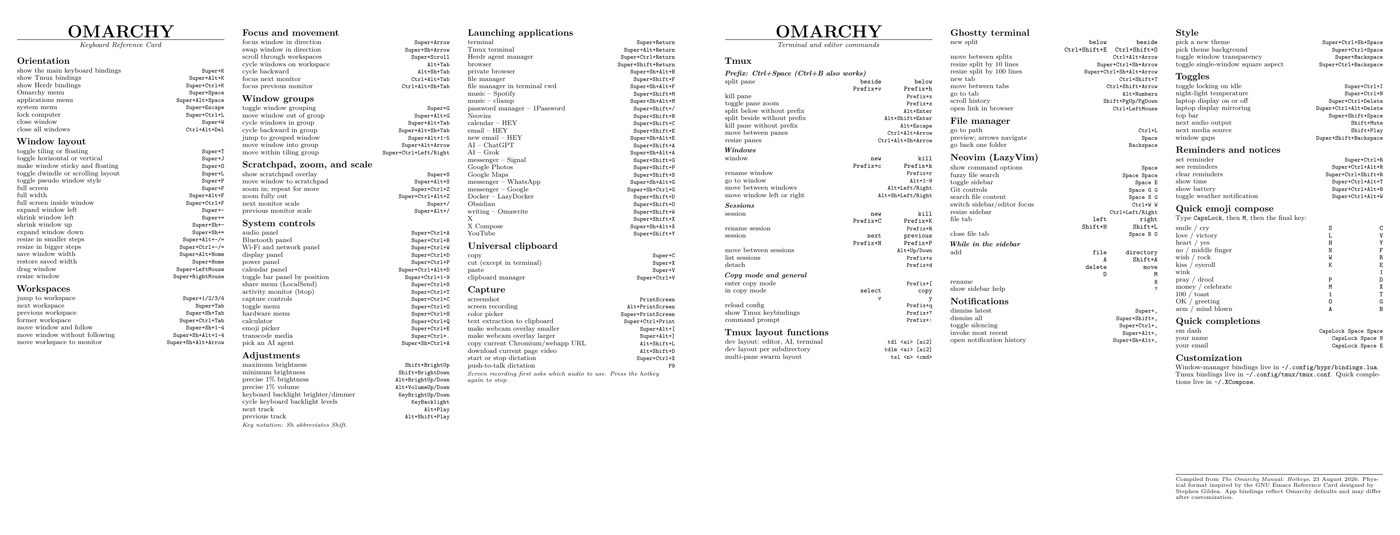
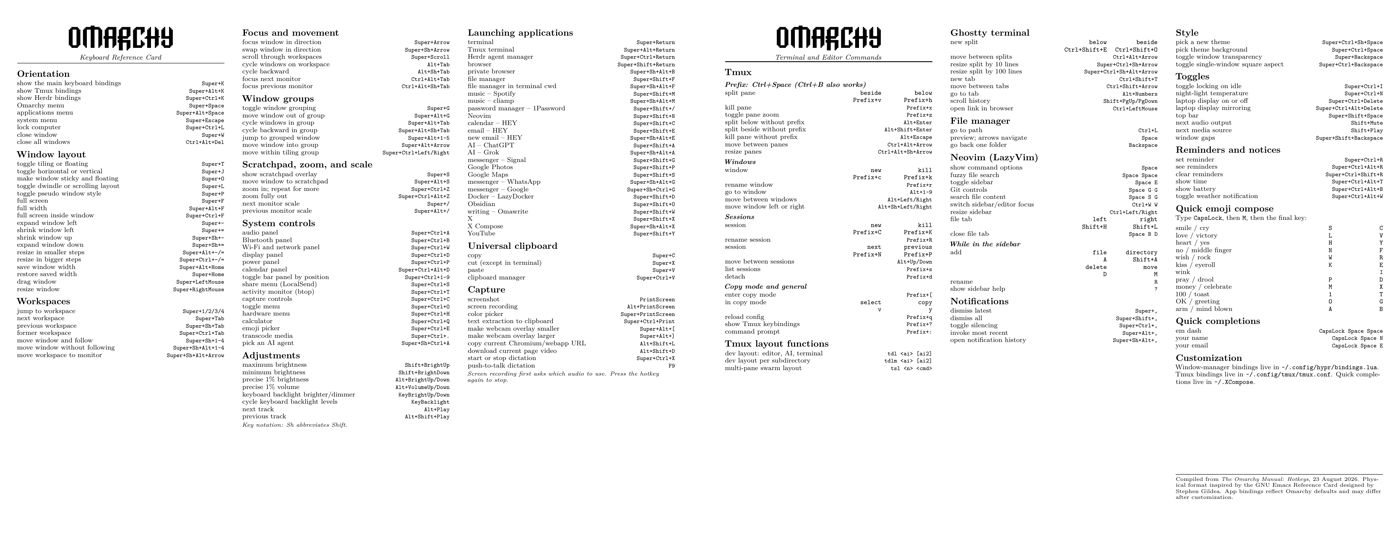
Use the official Omarchy wordmark

Changed region(s): [[0.0, 0.0299, 0.1843, 0.6879], [0.4914, 0.0299, 0.6757, 0.7178]]

diff --git a/personalize.example.tex b/personalize.example.tex
@@ -1,8 +1,9 @@
 % Copy this file to personalize.tex, then uncomment and edit what you want.
 % Defaults and layout files can be updated later without overwriting your work.
 
-% Change the title or subtitle.
+% Change the title or subtitle. A custom title replaces the official wordmark.
 % \SetCardTitle{PAUL'S OMARCHY}
+% \UseOfficialOmarchyWordmark
 % \SetCardEdition{Omarchy}
 % \SetCardSubtitle{Personal Reference Card}
 % \SetCardSourceDate{23 August 2026}

diff --git a/omarchy-reference-card.tex b/omarchy-reference-card.tex
@@ -17,7 +17,7 @@
 
 % SIDE ONE -- columns 1 through 3
 \noindent\panel{
-\cardtitle{\CardTitle}
+\PrintCardTitle
 \cardsubtitle{\CardSubtitle}
 
 \sectionhead{Orientation}
@@ -171,8 +171,8 @@
 
 % SIDE TWO -- columns 4 through 6
 \noindent\panel{
-\cardtitle{\CardTitle}
-\cardsubtitle{Terminal and editor commands}
+\PrintCardTitle
+\cardsubtitle{Terminal and Editor Commands}
 
 \sectionhead{Tmux}
 \subhead{Prefix: Ctrl+Space (Ctrl+B also works)}

diff --git a/README.md b/README.md
@@ -3,8 +3,9 @@
 [Omarchy](https://omarchy.org/) has a lot of excellent shortcuts. Remembering
 all of them is another matter.
 
-This project puts the useful ones on a beautifully typeset, six-panel keyboard
-reference card you can print, fold, and keep beside your keyboard.
+This unofficial community project puts the useful ones on a beautifully
+typeset, six-panel keyboard reference card you can print, fold, and keep beside
+your keyboard.
 
 Its retro look reaches past pixel art and gaming nostalgia to the technical
 reference cards of the late 1980s and early 1990s: dense, restrained,

diff --git a/docs/CUSTOMIZING.md b/docs/CUSTOMIZING.md
@@ -79,6 +79,13 @@ Titles and source information can also be personalized:
 \SetCardSourceDate{23 August 2026}
 ```
 
+`\SetCardTitle` replaces the default Omarchy wordmark with the supplied text
+on both sides. Restore the official wordmark with:
+
+```tex
+\UseOfficialOmarchyWordmark
+```
+
 Descriptions and keys are TeX text. Escape special characters when they should
 print literally; for example, write `\%`, `\_`, `\&`, and `\#`.
 

diff --git a/assets/README.md b/assets/README.md
@@ -1,0 +1,10 @@
+# Artwork
+
+`omarchy-wordmark.png` is a monochrome print rendering of Omarchy's official
+wordmark. It is derived from
+`default/plymouth/logo.png` in the
+[Omarchy repository](https://github.com/basecamp/omarchy), with its RGB
+channels changed to black and its transparency preserved.
+
+Copyright (c) David Heinemeier Hansson. Used under Omarchy's MIT License; see
+`THIRD_PARTY_NOTICES.md`.

diff --git a/THIRD_PARTY_NOTICES.md b/THIRD_PARTY_NOTICES.md
@@ -2,8 +2,9 @@
 
 ## Omarchy
 
-The distributed binding data and some concise descriptions are derived from
-the [Omarchy project](https://github.com/basecamp/omarchy).
+The distributed binding data, some concise descriptions, and the wordmark in
+`assets/omarchy-wordmark.png` are derived from the
+[Omarchy project](https://github.com/basecamp/omarchy).
 
 Copyright (c) David Heinemeier Hansson
 
